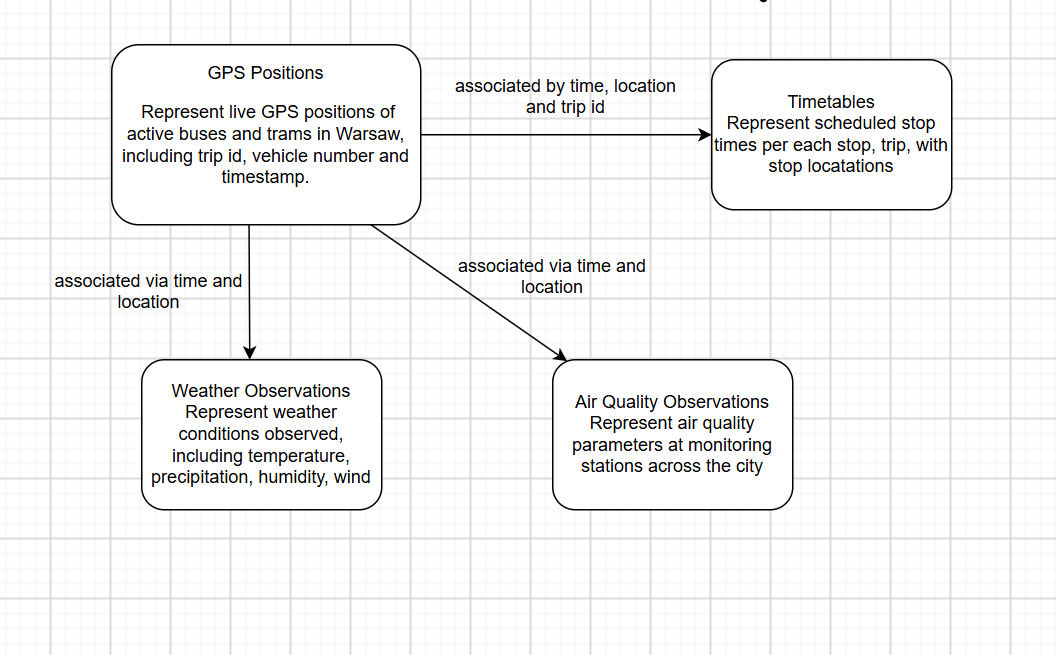
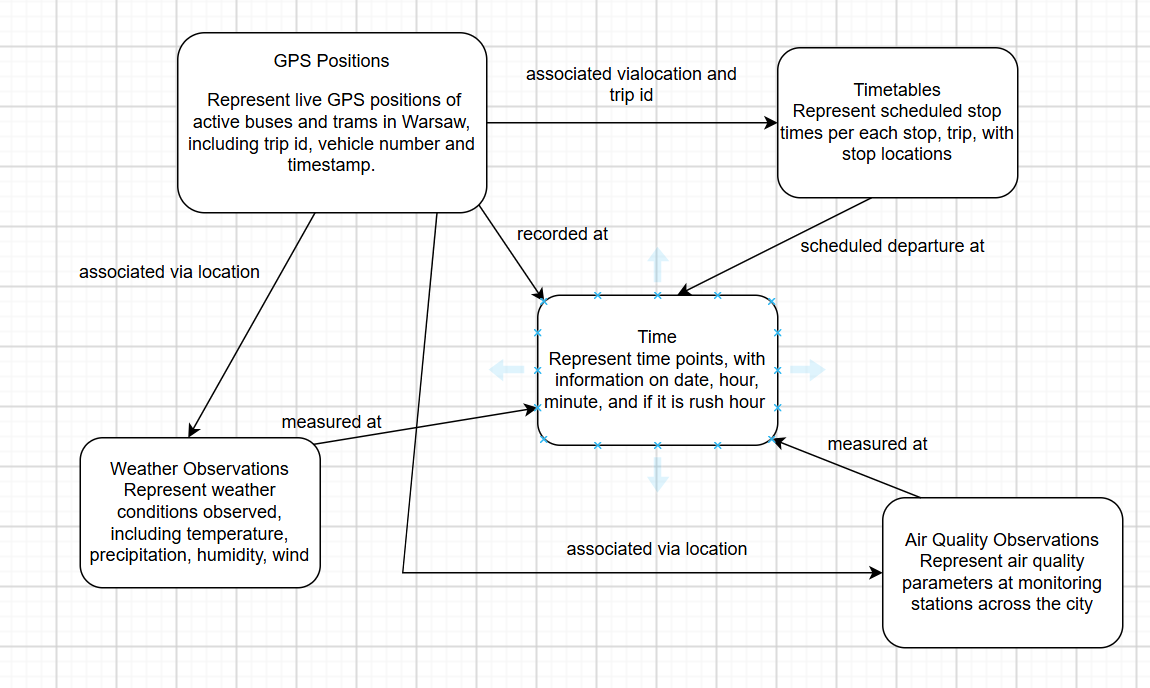
fix: update conceptual data model with time entity

diff --git a/docs/milestone_2/STEM_Report.tex b/docs/milestone_2/STEM_Report.tex
@@ -523,7 +523,7 @@ The feed from 17 November is missing because of our infrastructure outage, in th
 \subsection{Conceptual Data Model}
 
 The conceptual data model of the system is presented in Figure~\ref{fig:conceptual-model}.
-It consists of four entities, one for each data source:
+It consists of five entities, one for each data source and time entity:
 
 \begin{itemize}
     \item \textbf{Vehicle Positions} -- live GPS positions of active buses and trams,
@@ -534,8 +534,15 @@ It consists of four entities, one for each data source:
     precipitation, humidity, wind) measured at stations across the city.
     \item \textbf{Air Quality Observations} -- air quality parameters measured at
     monitoring stations across the city.
+    \item \textbf{Time} - a time slot of 10 seconds (timestamp, date, hour, minute,
+    day of week, holiday flag, peak/off-peak flag), shared by all other entities.
+
 \end{itemize}
 
+Time is a common dimension for all data sources. Each Vehicle Positions record is
+\emph{recorded at}, each Weather Observations record is \emph{observed at}, each Air
+Quality Observations record is \emph{measured at} exactly one time slot, each timetable record refers
+ refers to \emph{scheduled departure at}.
 Vehicle Positions is the central entity. It is associated with Timetables via trip id, stop and time, which allows the delay of a vehicle to be calculated. It is also
 associated with Weather Observations and Air Quality Observations via time and location,
 which allows delays to be related to the conditions in which they occurred. Timetables
